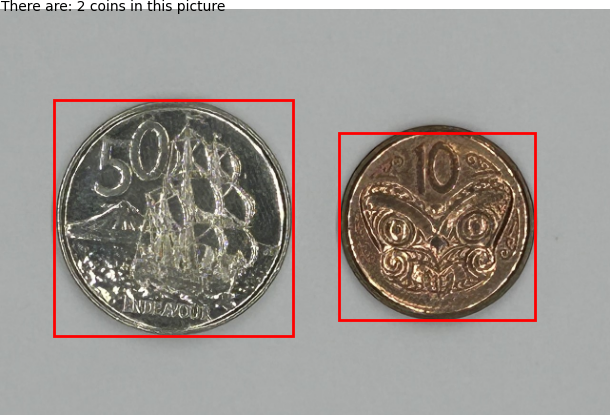
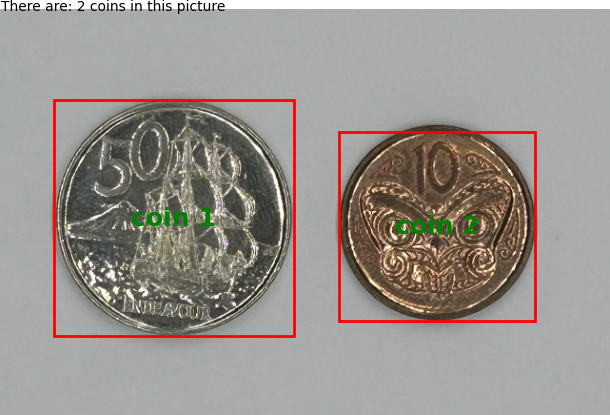
feat: implement coin labels for determining what value each coin has

diff --git a/CS373_coin_detection.py b/CS373_coin_detection.py
@@ -301,12 +301,26 @@ def connectedComponentAnalysis(binary_pixel_array, image_width, image_height):
     
     return bounding_box_list
 
+def findCoinValue(height):
+    
+    if (height >= 268 * 0.97 and height <= 268 * 1.03):
+        return "$2"
+    elif (height >= 231 * 0.97 and height <= 231 * 1.03):
+        return "$1"
+    elif (height >= 251 * 0.97 and height <= 251 * 1.03):
+        return "50c"
+    elif (height >= 215 * 0.97 and height <= 215 * 1.03):
+        return "20c"
+    elif (height >= 204 * 0.97 and height <= 204 * 1.03):
+        return "10c"
+    
+    return ""
 
 # This is our code skeleton that performs the coin detection.
 def main(input_path, output_path):
     # This is the default input image, you may change the 'image_name' variable to test other images.
-    image_name = 'hard_case_1'
-    input_filename = f'./Images/hard/{image_name}.png'
+    image_name = 'easy_case_6'
+    input_filename = f'./Images/easy/{image_name}.png'
     if TEST_MODE:
         input_filename = input_path
 
@@ -387,7 +401,15 @@ def main(input_path, output_path):
                 coinCount = coinCount + 1
                 rect = Rectangle(bbox_xy, bbox_width, bbox_height, linewidth=2, edgecolor='r', facecolor='none')
                 axs.add_patch(rect)
-                print(coinCount)
+ 
+                #print(coinCount)
+                x_center = bbox_xy[0] + bbox_width / 2
+                y_center = bbox_xy[1] + bbox_height / 2
+                print(bbox_height)
+                print(findCoinValue(bbox_height))
+                axs.annotate(findCoinValue(bbox_height), (x_center, y_center), color='w', weight='bold', 
+                fontsize=18, ha='center', va='center')
+                print(str(coinCount) + " the coin is width x height   " + str(bbox_width) + "   " + str(bbox_height))
         
         
     if(coinCount == 1):
